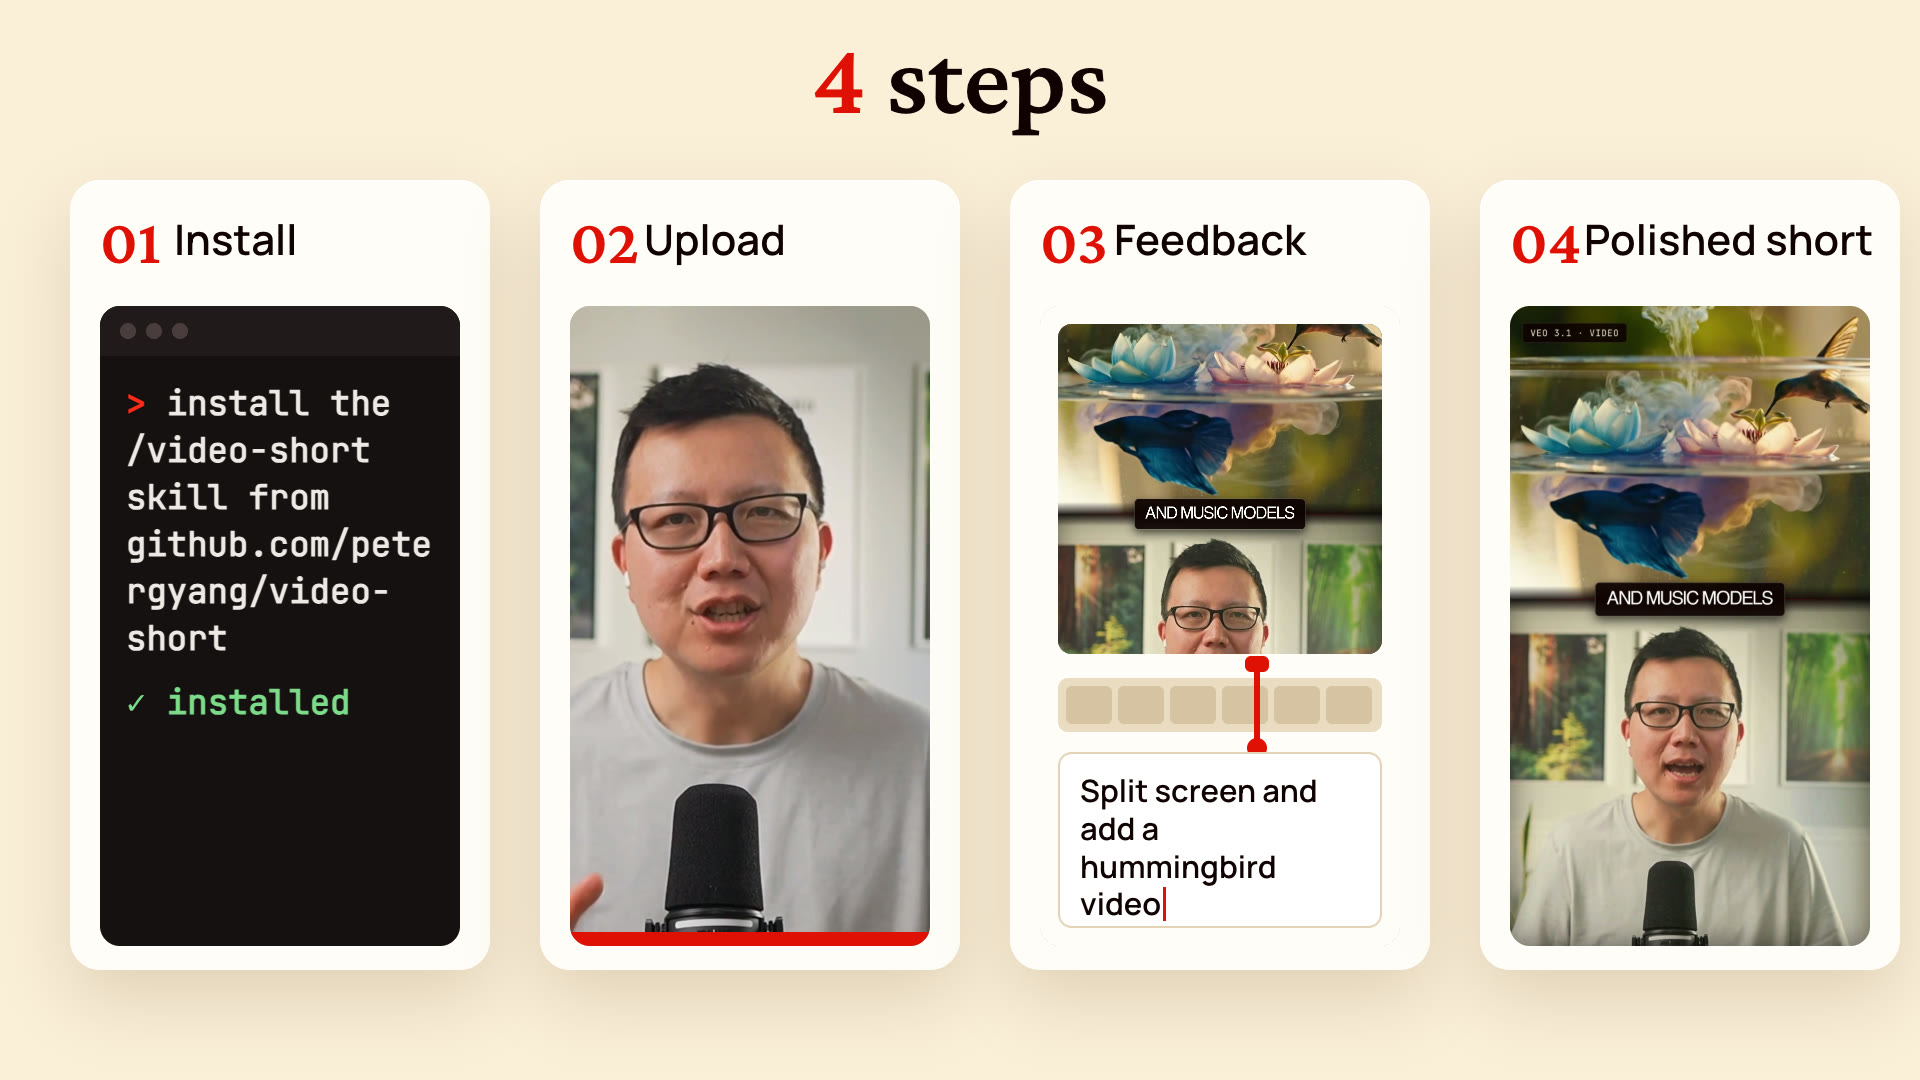
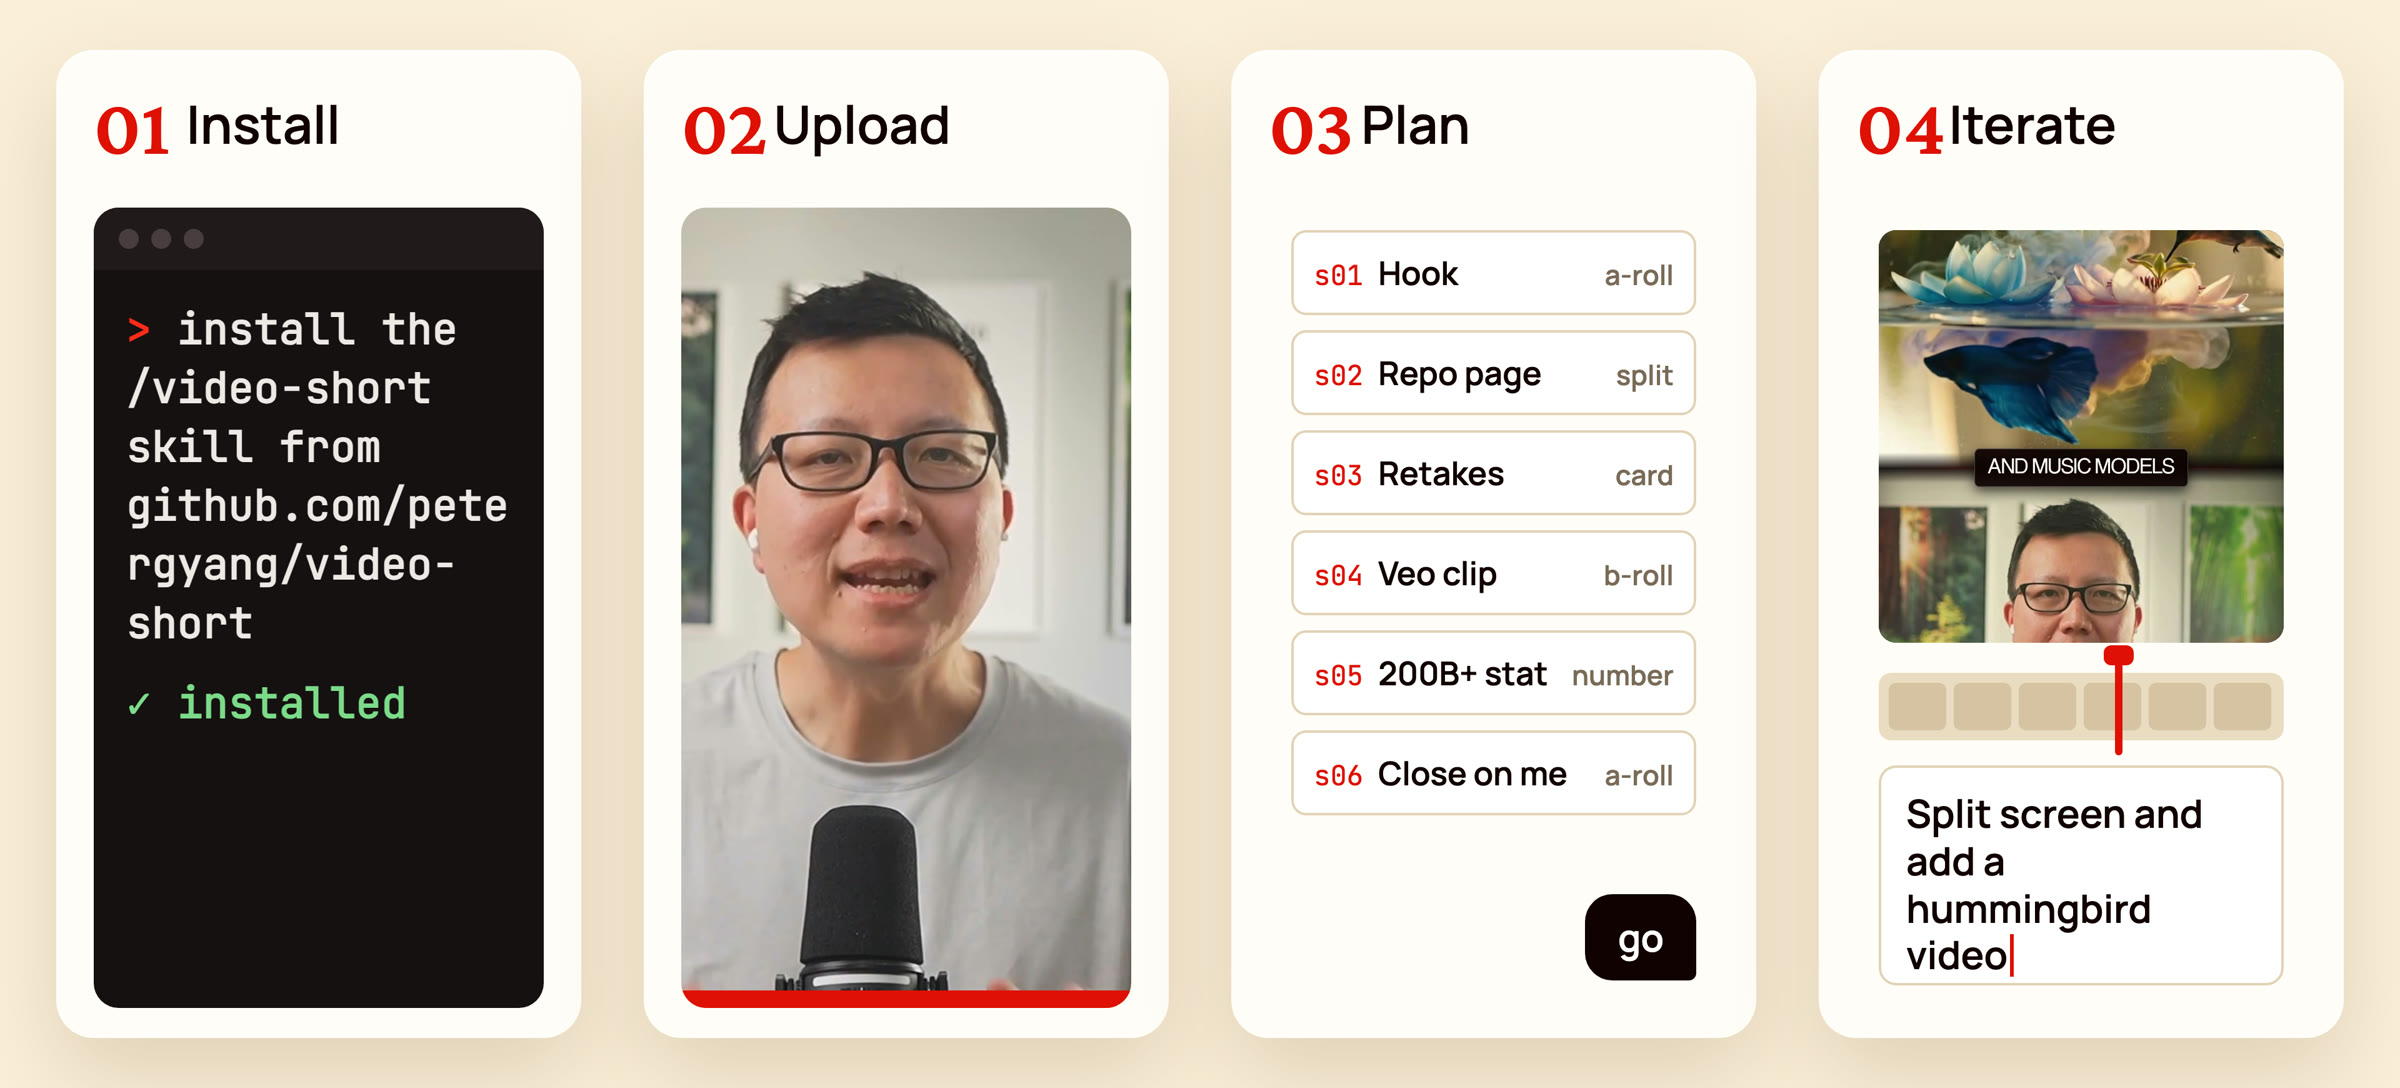
README: four-steps strip in How to use, steps match it (Install, Upload, Plan, Iterate)

diff --git a/README.md b/README.md
@@ -4,8 +4,6 @@ Turn a raw recording into a polished video short, complete with B-roll, motion g
 
 [Watch my video tutorial](https://youtu.be/NWll-9p84b4) to see how I use this skill.
 
-![Four steps: install the skill, upload your raw recording, give feedback, and get a polished short](assets/four-steps.jpg)
-
 ## Problem
 
 Every social platform is hungry for video shorts, but creating a polished 30-60 second short still takes hours to do manually. You have to cut retakes, hunt for compelling B-roll footage, add motion graphics and captions, and find the right music.
@@ -62,18 +60,18 @@ The first time you run the skill, it'll check if you have the following installe
 
 ## How to use video short
 
-To use video short, first record yourself talking. Then open ChatGPT desktop, Claude Code, or your favorite AI tool and point it at the raw video with this prompt:
+![Four steps: install the skill, upload your raw recording, approve the plan, and iterate with feedback](assets/four-steps.jpg)
 
-```text
-/video-short edit my video at [path/to/video.mp4]
-```
+1. **Install.** Paste the install prompt above into Claude Code, ChatGPT, or your favorite AI agent. You only do this once.
+2. **Upload.** Record yourself talking, then point your agent at the raw video:
 
-The skill will then do 4 things:
+   ```text
+   /video-short edit my video at [path/to/video.mp4]
+   ```
 
-1. **Cut.** The agent transcribes the recording, reads every line, and cuts retakes, false starts, and dead air.
-2. **Plan.** It researches the topic, finds B-roll from your footage and the web, and shows you a table of the plan in chat: every scene, what's on screen, and what it wants to generate. Reply "go" or ask for changes.
-3. **Review.** It renders a draft and opens a review page. You can watch the draft short and pause on any frame to leave feedback. Click Send notes when you're done.
-4. **Iterate.** The agent applies your notes and renders the next draft, and the page reloads. Repeat until you click Looks good.
+   It transcribes the recording and cuts retakes, false starts, and dead air.
+3. **Plan.** It researches the topic, finds B-roll from your footage and the web, and shows you a table of every scene in chat: what's on screen, the words spoken, and anything it wants to generate. Reply "go" or ask for changes.
+4. **Iterate.** It renders a draft and opens the review page. Pause on any frame, leave a comment, and click Send notes. The agent applies your notes and the page reloads with the next draft. Repeat until you click Looks good.
 
 Each render saves a new version, so you can compare `v1` and `v2`, plus a small 720p copy in `renders/share/` to send from your phone or email.
 
